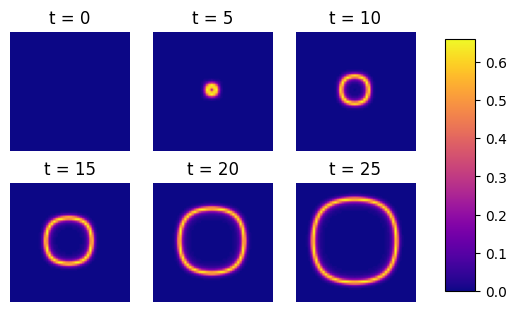
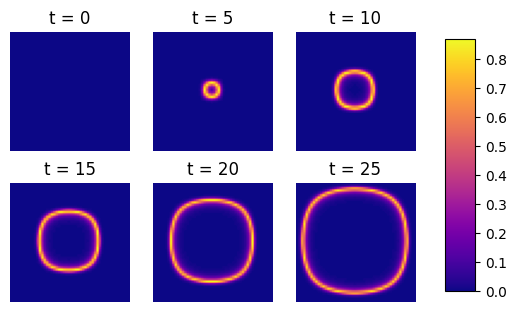
Add new results

diff --git a/simulation.py b/simulation.py
@@ -73,12 +73,12 @@ if __name__ == '__main__':
 
     # Allow setup of NPIs with user-specified parameters
     if input("Do you want to simulate the effects of NPIs? (y/n)") == "y":
-        i_quarantine_factor = float(input("Success rate of quarantining infected people (float):") or "0.98")
+        i_quarantine_factor = float(input("Success rate of quarantining infected people (float):") or "0.81")
         i_quarantine_trigger = float(input("What % infected before quarantining infected people (float):") or "0.001")
-        e_quarantine_factor = float(input("Success rate of asymptomatic quarantine (float):") or "0.2")
+        e_quarantine_factor = float(input("Success rate of asymptomatic quarantine (float):") or "0.17")
         e_quarantine_trigger = float(input("What % infected before asymptomatic quarantine (float):") or "0.003")
         lockdown_trigger = float(input("What % infected before restriction of movement (float):") or "0.05")
-        unlock_trigger = float(input("What % infected before restriction of movement ends (float):") or "0.01")
+        unlock_trigger = float(input("What % infected before restriction of movement ends (float):") or "0.005")
 
     # Create an initial space with the parameters following user input
     # spaces is a list as further spaces can be added for comparison
@@ -101,7 +101,7 @@ if __name__ == '__main__':
 
     # Results are written to a CSV
     if input("Save to CSV? (y/n)") == "y":
-        spaces[0].write_to_csv()
+        spaces[1].write_to_csv()
 
     # Allow users specify different timesteps for the snapshots of the space - grid is designed for 6 such figures
     # Otherwise divide intervals by 6 and use these equally spaced intervals
@@ -122,10 +122,10 @@ if __name__ == '__main__':
     # Plot figures for the initial space by default - this avoids having too many figures
     # Save plots to img folder - overwritten after each run, so make copies if required
     plt.rcParams['figure.figsize'] = [6.8, 4.8]
-    spaces[0].plot_population_over_time(False, list(Compartment))
+    spaces[1].plot_population_over_time(False, list(Compartment))
     plt.savefig("./img/SEIRD.png", bbox_inches='tight')
 
-    spaces[0].plot_population_over_time(False, [Compartment.EXPOSED, Compartment.INFECTED, Compartment.DECEASED])
+    spaces[1].plot_population_over_time(False, [Compartment.EXPOSED, Compartment.INFECTED, Compartment.DECEASED])
     plt.savefig("./img/EID.png", bbox_inches='tight')
 
     plt.rcParams['figure.figsize'] = [6, 3.6]

diff --git a/space.py b/space.py
@@ -370,7 +370,7 @@ class Space:
                     exposed = (1 - self.e_quarantine_factor) * exposed
 
                 total += (neighbour.population / cell.population) * c * m * self.virulence * \
-                         (0.5 * exposed + infected)
+                         ((0.85 * exposed) + infected)
 
         return total
 
@@ -402,7 +402,7 @@ class Space:
                     exposed_minus_quarantine = prev_e * (1 - self.e_quarantine_factor)
 
                 # Assume people are infected over being vaccinated as there may be some overlap
-                s_to_e = self.virulence * prev_s * (infected_minus_quarantine + 1 / 2 * exposed_minus_quarantine) \
+                s_to_e = self.virulence * prev_s * (infected_minus_quarantine + (0.85 * exposed_minus_quarantine)) \
                          + prev_s * n
                 if s_to_e > prev_s:
                     s_to_e = prev_s
